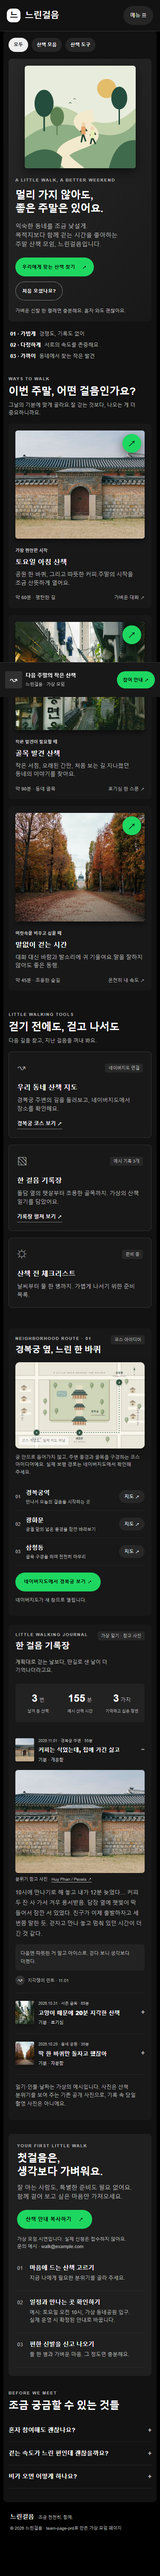
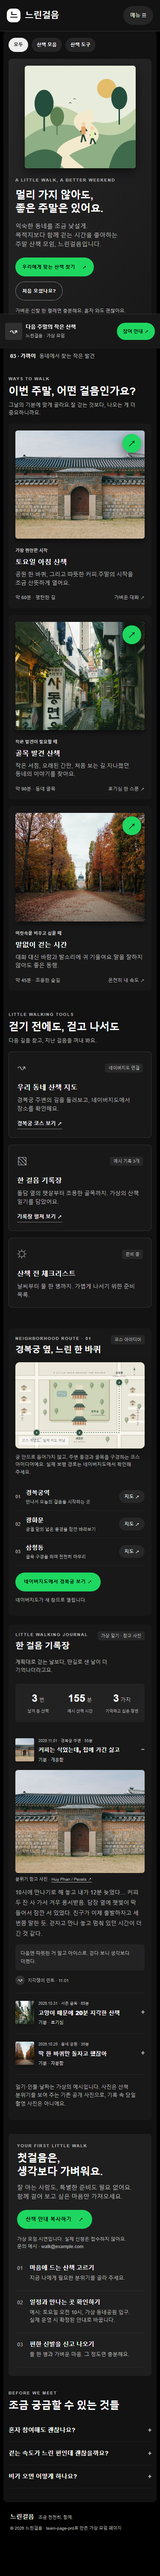
round2: remove skip link and refresh mobile screenshot

diff --git a/round2/에셈유/index.html b/round2/에셈유/index.html
@@ -6,7 +6,7 @@
 <title>느린걸음 — 동네에서 발견하는 좋은 주말</title>
 <style>
 :root{color-scheme:dark;--green:#1ed760;--paper:#121212;--lime:#1ed760;--soft:#252525;--ink:#fff;--muted:#b3b3b3;--line:#333;--white:#fff;--radius:8px;--sidebar:232px;--dock:88px;--shadow:0 8px 24px #0008}
-*{box-sizing:border-box}html{scroll-behavior:smooth;scroll-padding-top:32px}body{margin:0;background:#000;color:var(--ink);font-family:SpotifyMixUI,"Helvetica Neue",Arial,"Apple SD Gothic Neo","Malgun Gothic",sans-serif;font-size:14px;line-height:1.5;word-break:keep-all}a{color:inherit;text-decoration:none}button{font:inherit;cursor:pointer}a:focus-visible,button:focus-visible,summary:focus-visible{outline:2px solid #fff;outline-offset:5px}.skip{position:fixed;top:16px;left:16px;z-index:40;background:#252525;color:#fff;padding:12px 20px;border-radius:9999px;text-decoration:none}.skip:not(:focus-visible){width:1px;height:1px;padding:0;overflow:hidden;clip-path:inset(50%);white-space:nowrap;pointer-events:none}.skip:focus-visible{outline:2px solid #fff;outline-offset:4px}.wrap{width:auto;margin:0}header{position:fixed;inset:8px auto calc(var(--dock) + 8px) 8px;width:calc(var(--sidebar) - 16px);background:var(--paper);border-radius:8px;z-index:20}.nav{height:100%;padding:28px 16px;display:flex;flex-direction:column;align-items:stretch;gap:32px}.brand{display:flex;gap:10px;align-items:center;font-size:23px;font-weight:700;letter-spacing:-1px;padding:0 4px}.brand svg,.brand img{width:36px;height:36px;object-fit:contain}.brand svg rect{fill:#fff}.brand svg text{fill:#121212}nav{display:flex;flex-direction:column;gap:8px;font-size:14px}nav a{padding:12px 16px;color:var(--muted);border-radius:9999px;transition:background .2s,color .2s}nav a:hover{background:var(--soft);color:#fff}nav a[aria-current="location"]{background:#252525;color:#fff;font-weight:700}nav a:before{display:inline-block;width:24px;margin-right:8px;content:'↗';font-size:16px}nav a:first-child:before{content:'⌂'}nav a:nth-child(2):before{content:'↝'}nav a:nth-child(3):before{content:'▧'}nav .nav-cta{margin-top:16px;background:var(--green);color:#000;font-weight:700;font-size:12px;padding:12px}.nav-cta:hover{background:#3be477;color:#000}.sidebar-note{margin-top:auto;color:var(--muted);font-size:12px;padding:16px;line-height:1.7}.sidebar-note strong{display:block;color:#fff;font-size:14px;margin-bottom:8px}.sidebar-note span{display:inline-block;margin-top:20px;border-radius:9999px;box-shadow:inset 0 0 0 1px #7c7c7c;padding:6px 12px;font-size:11px}.menu{display:none}main{margin:8px 8px 0 var(--sidebar);background:var(--paper);border-radius:8px;min-height:calc(100vh - 16px);padding:24px 32px 0;overflow:clip}.content-top{display:flex;align-items:center;justify-content:space-between;gap:12px;margin-bottom:24px}.pills{display:flex;gap:8px}.pills a{padding:8px 16px;background:#252525;border-radius:9999px;font-size:12px;font-weight:700}.pills a:first-child{background:#eee;color:#181818}.edition{font-size:12px;color:var(--muted)}.eyebrow{font-size:10px;letter-spacing:1.6px;text-transform:uppercase;font-weight:700;color:var(--muted)}.hero{display:grid;grid-template-columns:1fr 260px;gap:32px;align-items:center;padding:24px;background:linear-gradient(135deg,#292929,#181818);border-radius:8px}.hero>div:first-child{order:2}.scene{order:1;grid-column:2;grid-row:1;min-width:0}.hero>div:first-child{grid-column:1;grid-row:1}h1{font-family:SpotifyMixUITitle,"Helvetica Neue",Arial,"Malgun Gothic",sans-serif;font-size:24px;font-weight:700;line-height:1.3;letter-spacing:-.6px;margin:12px 0 16px}h1 em{font-style:normal}h1 br:nth-of-type(2){display:none}.lead{font-size:14px;color:var(--muted);margin:0 0 20px;line-height:1.5}.buttons{display:flex;gap:12px;flex-wrap:wrap}.btn{display:inline-flex;align-items:center;justify-content:center;gap:16px;min-height:44px;background:var(--green);color:#000;border:0;border-radius:9999px;padding:12px 20px;font-size:12px;font-weight:700;letter-spacing:1.4px;text-transform:uppercase;transition:transform .2s,background .2s}.btn:hover{transform:scale(1.03);background:#3be477}.btn.light{background:transparent;color:#fff;box-shadow:inset 0 0 0 1px #7c7c7c}.btn.light:hover{box-shadow:inset 0 0 0 1px #fff}.micro{font-size:11px;color:var(--muted);margin:16px 0 0}.scene svg{width:100%;height:auto;display:block;border-radius:6px;box-shadow:var(--shadow)}.scene-label,.scene-tag{display:none}.principles{display:flex;gap:24px;flex-wrap:wrap;padding:24px 0;color:var(--muted);font-size:12px}.principles strong{color:#fff;margin-right:8px;font-weight:700}section.block{padding:16px 0 32px}.section-head{display:flex;justify-content:space-between;align-items:end;gap:16px;margin-bottom:16px}h2{font-family:SpotifyMixUITitle,"Helvetica Neue",Arial,"Malgun Gothic",sans-serif;font-size:24px;font-weight:700;line-height:1.3;letter-spacing:-.5px;margin:6px 0 0}.section-head p{color:var(--muted);font-size:12px;margin:0}.grid{display:grid;grid-template-columns:repeat(3,minmax(0,1fr));gap:16px}.card{position:relative;background:#181818;border:0;border-radius:8px;padding:16px;transition:background .2s;min-width:0}.card:hover{background:#252525}.art{aspect-ratio:1;height:auto;display:grid;place-content:center;overflow:hidden;border-radius:6px;box-shadow:0 8px 8px #0005}.art.one{background:#e8eddd}.art.two{background:#eee7da}.art.three{background:#e1e8e8}.art svg{width:100%;height:auto;display:block}.card-copy{padding:16px 0 0}.tag{font-size:10px;color:#cbcbcb;font-weight:600}.card h3{font-size:16px;line-height:1.3;margin:8px 0;letter-spacing:0;font-weight:700}.card p{font-size:13px;color:var(--muted);margin:0;line-height:1.5}.card-bottom{display:flex;justify-content:space-between;gap:8px;margin-top:16px;font-size:11px;color:var(--muted)}.card-link{position:absolute;right:24px;top:24px;width:44px;height:44px;border-radius:50%;background:var(--green);color:#000;box-shadow:var(--shadow);display:grid;place-items:center;font-size:22px;transition:transform .2s}.card-link:hover{transform:scale(1.08)}.tool{border-radius:8px;padding:20px;background:#181818;box-shadow:inset 0 0 0 1px #333}.tool-top{display:flex;justify-content:space-between;align-items:center}.tool-icon{font-size:24px;color:#b3b3b3}.soon{font-size:10px;background:#272727;color:var(--muted);padding:3px 8px;border-radius:4px}.tool h3{font-size:16px;margin:16px 0 8px}.tool p{font-size:13px;color:var(--muted);margin:0}.join{background:#1f1f1f;border-radius:8px;padding:24px;display:grid;grid-template-columns:1fr 1fr;gap:32px}.join h2{font-size:24px}.join p{font-size:14px;color:var(--muted);margin:12px 0}.join .btn{margin-top:8px}.join small{display:block;font-size:11px;color:var(--muted);margin-top:16px}.steps{list-style:none;margin:0;padding:0}.steps li{display:flex;gap:16px;padding:16px 0;border-bottom:1px solid #ffffff12}.steps b{font-size:12px;font-weight:400;color:var(--muted);padding-top:2px}.steps strong{font-size:14px}.steps p{font-size:12px;margin:4px 0}.faq{display:grid;grid-template-columns:1fr 1.5fr;gap:24px;padding:32px 0}.faq h2{font-size:24px}details{padding:16px 0;border-bottom:1px solid #ffffff12;font-size:14px}summary{cursor:pointer;list-style:none;display:flex;justify-content:space-between;gap:12px;font-weight:700}summary::-webkit-details-marker{display:none}summary:after{content:'+';color:var(--muted)}details[open] summary:after{content:'−'}details p{font-size:13px;color:var(--muted);margin:12px 0 0}footer{margin-left:var(--sidebar);padding:24px 32px calc(var(--dock) + 24px);color:var(--muted)}.foot{display:flex;justify-content:space-between;gap:16px;font-size:10px}.foot strong{font-size:14px;color:#fff}.walk-dock{position:fixed;bottom:0;left:0;right:0;height:var(--dock);z-index:25;background:#181818;box-shadow:0 -1px 0 #333;display:flex;align-items:center;justify-content:space-between;gap:24px;padding:12px 24px}.dock-info{display:flex;gap:12px;align-items:center;min-width:0}.dock-cover{display:grid;place-items:center;width:52px;height:52px;background:#303030;border-radius:4px;font-size:26px;flex-shrink:0}.dock-info strong{font-size:14px;display:block}.dock-info small{font-size:11px;color:var(--muted)}.dock-center{color:var(--muted);font-size:12px;text-align:center}.dock-center strong{display:block;color:#fff;font-size:12px;margin-bottom:4px}.walk-dock .btn{font-size:11px}.toast{position:fixed;bottom:calc(var(--dock) + 16px);left:50%;transform:translateX(-50%);max-width:calc(100% - 32px);width:max-content;background:#fff;color:#121212;border-radius:8px;box-shadow:var(--shadow);padding:12px 20px;font-size:13px;z-index:40}.toast:empty{display:none}
+*{box-sizing:border-box}html{scroll-behavior:smooth;scroll-padding-top:32px}body{margin:0;background:#000;color:var(--ink);font-family:SpotifyMixUI,"Helvetica Neue",Arial,"Apple SD Gothic Neo","Malgun Gothic",sans-serif;font-size:14px;line-height:1.5;word-break:keep-all}a{color:inherit;text-decoration:none}button{font:inherit;cursor:pointer}a:focus-visible,button:focus-visible,summary:focus-visible{outline:2px solid #fff;outline-offset:5px}.wrap{width:auto;margin:0}header{position:fixed;inset:8px auto calc(var(--dock) + 8px) 8px;width:calc(var(--sidebar) - 16px);background:var(--paper);border-radius:8px;z-index:20}.nav{height:100%;padding:28px 16px;display:flex;flex-direction:column;align-items:stretch;gap:32px}.brand{display:flex;gap:10px;align-items:center;font-size:23px;font-weight:700;letter-spacing:-1px;padding:0 4px}.brand svg,.brand img{width:36px;height:36px;object-fit:contain}.brand svg rect{fill:#fff}.brand svg text{fill:#121212}nav{display:flex;flex-direction:column;gap:8px;font-size:14px}nav a{padding:12px 16px;color:var(--muted);border-radius:9999px;transition:background .2s,color .2s}nav a:hover{background:var(--soft);color:#fff}nav a[aria-current="location"]{background:#252525;color:#fff;font-weight:700}nav a:before{display:inline-block;width:24px;margin-right:8px;content:'↗';font-size:16px}nav a:first-child:before{content:'⌂'}nav a:nth-child(2):before{content:'↝'}nav a:nth-child(3):before{content:'▧'}nav .nav-cta{margin-top:16px;background:var(--green);color:#000;font-weight:700;font-size:12px;padding:12px}.nav-cta:hover{background:#3be477;color:#000}.sidebar-note{margin-top:auto;color:var(--muted);font-size:12px;padding:16px;line-height:1.7}.sidebar-note strong{display:block;color:#fff;font-size:14px;margin-bottom:8px}.sidebar-note span{display:inline-block;margin-top:20px;border-radius:9999px;box-shadow:inset 0 0 0 1px #7c7c7c;padding:6px 12px;font-size:11px}.menu{display:none}main{margin:8px 8px 0 var(--sidebar);background:var(--paper);border-radius:8px;min-height:calc(100vh - 16px);padding:24px 32px 0;overflow:clip}.content-top{display:flex;align-items:center;justify-content:space-between;gap:12px;margin-bottom:24px}.pills{display:flex;gap:8px}.pills a{padding:8px 16px;background:#252525;border-radius:9999px;font-size:12px;font-weight:700}.pills a:first-child{background:#eee;color:#181818}.edition{font-size:12px;color:var(--muted)}.eyebrow{font-size:10px;letter-spacing:1.6px;text-transform:uppercase;font-weight:700;color:var(--muted)}.hero{display:grid;grid-template-columns:1fr 260px;gap:32px;align-items:center;padding:24px;background:linear-gradient(135deg,#292929,#181818);border-radius:8px}.hero>div:first-child{order:2}.scene{order:1;grid-column:2;grid-row:1;min-width:0}.hero>div:first-child{grid-column:1;grid-row:1}h1{font-family:SpotifyMixUITitle,"Helvetica Neue",Arial,"Malgun Gothic",sans-serif;font-size:24px;font-weight:700;line-height:1.3;letter-spacing:-.6px;margin:12px 0 16px}h1 em{font-style:normal}h1 br:nth-of-type(2){display:none}.lead{font-size:14px;color:var(--muted);margin:0 0 20px;line-height:1.5}.buttons{display:flex;gap:12px;flex-wrap:wrap}.btn{display:inline-flex;align-items:center;justify-content:center;gap:16px;min-height:44px;background:var(--green);color:#000;border:0;border-radius:9999px;padding:12px 20px;font-size:12px;font-weight:700;letter-spacing:1.4px;text-transform:uppercase;transition:transform .2s,background .2s}.btn:hover{transform:scale(1.03);background:#3be477}.btn.light{background:transparent;color:#fff;box-shadow:inset 0 0 0 1px #7c7c7c}.btn.light:hover{box-shadow:inset 0 0 0 1px #fff}.micro{font-size:11px;color:var(--muted);margin:16px 0 0}.scene svg{width:100%;height:auto;display:block;border-radius:6px;box-shadow:var(--shadow)}.scene-label,.scene-tag{display:none}.principles{display:flex;gap:24px;flex-wrap:wrap;padding:24px 0;color:var(--muted);font-size:12px}.principles strong{color:#fff;margin-right:8px;font-weight:700}section.block{padding:16px 0 32px}.section-head{display:flex;justify-content:space-between;align-items:end;gap:16px;margin-bottom:16px}h2{font-family:SpotifyMixUITitle,"Helvetica Neue",Arial,"Malgun Gothic",sans-serif;font-size:24px;font-weight:700;line-height:1.3;letter-spacing:-.5px;margin:6px 0 0}.section-head p{color:var(--muted);font-size:12px;margin:0}.grid{display:grid;grid-template-columns:repeat(3,minmax(0,1fr));gap:16px}.card{position:relative;background:#181818;border:0;border-radius:8px;padding:16px;transition:background .2s;min-width:0}.card:hover{background:#252525}.art{aspect-ratio:1;height:auto;display:grid;place-content:center;overflow:hidden;border-radius:6px;box-shadow:0 8px 8px #0005}.art.one{background:#e8eddd}.art.two{background:#eee7da}.art.three{background:#e1e8e8}.art svg{width:100%;height:auto;display:block}.card-copy{padding:16px 0 0}.tag{font-size:10px;color:#cbcbcb;font-weight:600}.card h3{font-size:16px;line-height:1.3;margin:8px 0;letter-spacing:0;font-weight:700}.card p{font-size:13px;color:var(--muted);margin:0;line-height:1.5}.card-bottom{display:flex;justify-content:space-between;gap:8px;margin-top:16px;font-size:11px;color:var(--muted)}.card-link{position:absolute;right:24px;top:24px;width:44px;height:44px;border-radius:50%;background:var(--green);color:#000;box-shadow:var(--shadow);display:grid;place-items:center;font-size:22px;transition:transform .2s}.card-link:hover{transform:scale(1.08)}.tool{border-radius:8px;padding:20px;background:#181818;box-shadow:inset 0 0 0 1px #333}.tool-top{display:flex;justify-content:space-between;align-items:center}.tool-icon{font-size:24px;color:#b3b3b3}.soon{font-size:10px;background:#272727;color:var(--muted);padding:3px 8px;border-radius:4px}.tool h3{font-size:16px;margin:16px 0 8px}.tool p{font-size:13px;color:var(--muted);margin:0}.join{background:#1f1f1f;border-radius:8px;padding:24px;display:grid;grid-template-columns:1fr 1fr;gap:32px}.join h2{font-size:24px}.join p{font-size:14px;color:var(--muted);margin:12px 0}.join .btn{margin-top:8px}.join small{display:block;font-size:11px;color:var(--muted);margin-top:16px}.steps{list-style:none;margin:0;padding:0}.steps li{display:flex;gap:16px;padding:16px 0;border-bottom:1px solid #ffffff12}.steps b{font-size:12px;font-weight:400;color:var(--muted);padding-top:2px}.steps strong{font-size:14px}.steps p{font-size:12px;margin:4px 0}.faq{display:grid;grid-template-columns:1fr 1.5fr;gap:24px;padding:32px 0}.faq h2{font-size:24px}details{padding:16px 0;border-bottom:1px solid #ffffff12;font-size:14px}summary{cursor:pointer;list-style:none;display:flex;justify-content:space-between;gap:12px;font-weight:700}summary::-webkit-details-marker{display:none}summary:after{content:'+';color:var(--muted)}details[open] summary:after{content:'−'}details p{font-size:13px;color:var(--muted);margin:12px 0 0}footer{margin-left:var(--sidebar);padding:24px 32px calc(var(--dock) + 24px);color:var(--muted)}.foot{display:flex;justify-content:space-between;gap:16px;font-size:10px}.foot strong{font-size:14px;color:#fff}.walk-dock{position:fixed;bottom:0;left:0;right:0;height:var(--dock);z-index:25;background:#181818;box-shadow:0 -1px 0 #333;display:flex;align-items:center;justify-content:space-between;gap:24px;padding:12px 24px}.dock-info{display:flex;gap:12px;align-items:center;min-width:0}.dock-cover{display:grid;place-items:center;width:52px;height:52px;background:#303030;border-radius:4px;font-size:26px;flex-shrink:0}.dock-info strong{font-size:14px;display:block}.dock-info small{font-size:11px;color:var(--muted)}.dock-center{color:var(--muted);font-size:12px;text-align:center}.dock-center strong{display:block;color:#fff;font-size:12px;margin-bottom:4px}.walk-dock .btn{font-size:11px}.toast{position:fixed;bottom:calc(var(--dock) + 16px);left:50%;transform:translateX(-50%);max-width:calc(100% - 32px);width:max-content;background:#fff;color:#121212;border-radius:8px;box-shadow:var(--shadow);padding:12px 20px;font-size:13px;z-index:40}.toast:empty{display:none}
 @media(min-width:897px) and (max-width:1100px){:root{--sidebar:200px}main{padding:20px}.hero{grid-template-columns:1fr 180px;padding:20px;gap:20px}.grid{grid-template-columns:repeat(2,minmax(0,1fr))}.nav{padding:24px 12px}.brand{font-size:20px}.join{gap:20px}.dock-center{display:none}}
 @media(max-width:896px){:root{--dock:80px}html{scroll-padding-top:88px}header{position:sticky;top:0;inset:auto;width:auto;margin:0;border-radius:0;background:#121212;box-shadow:0 1px 0 #333}.nav{height:72px;padding:12px 16px;flex-direction:row;justify-content:space-between;align-items:center;gap:12px}.brand{font-size:21px;padding:0}.brand svg,.brand img{width:32px;height:32px}.sidebar-note{display:none}.menu{display:block;color:#fff;border:0;border-radius:9999px;background:#252525;padding:10px 16px;font-size:12px;min-height:44px}nav{display:none;position:absolute;top:72px;left:0;right:0;background:#181818;padding:16px;box-shadow:var(--shadow)}nav.open{display:flex}nav .nav-cta{margin-top:8px}main{margin:0 8px;padding:20px 16px 0;min-height:0}.hero{grid-template-columns:1fr 200px;gap:20px;padding:20px}.content-top{margin-bottom:20px}.edition{display:none}.section-head{align-items:start}.section-head p{max-width:180px}.grid{grid-template-columns:repeat(2,minmax(0,1fr))}.join{gap:24px;padding:24px}.faq{grid-template-columns:1fr;gap:16px}footer{margin:0;padding:24px 24px calc(var(--dock) + 24px)}.walk-dock{padding:12px 16px;gap:12px}.dock-center{display:none}.dock-info small{font-size:10px}.foot{flex-direction:column;gap:8px}}
 @media(max-width:575px){main{padding:16px 12px 0}.content-top{margin-bottom:16px}.pills a{font-size:11px;padding:8px 12px}.hero{grid-template-columns:1fr;padding:16px;gap:20px}.scene{grid-column:1;grid-row:1;width:min(100%,260px);margin:auto}.hero>div:first-child{grid-column:1;grid-row:2}h1{font-size:24px}.lead{font-size:14px}.hero .btn{font-size:11px;padding:12px 16px;letter-spacing:.4px}.principles{flex-direction:column;gap:8px;padding:20px 4px}.section-head{flex-direction:column;gap:8px}.section-head p{max-width:none;font-size:12px}.section-head p br{display:none}h2{font-size:24px}.grid{grid-template-columns:1fr}.card{padding:16px}.art{aspect-ratio:1.2}.card-copy{padding-top:16px}.card p br{display:none}.join{grid-template-columns:1fr;padding:20px;gap:16px}.join .btn{letter-spacing:.5px}.dock-cover{width:40px;height:40px;font-size:22px}.dock-info strong{font-size:12px}.dock-info small{font-size:10px}.walk-dock{gap:8px;padding:12px}.walk-dock .btn{padding:10px 14px;min-height:40px;letter-spacing:0;font-size:11px;white-space:nowrap}.dock-info{gap:8px}.toast{left:16px;transform:none;width:calc(100% - 32px)}}
@@ -19,7 +19,6 @@
 </style>
 </head>
 <body>
-<a class="skip" href="#main">본문으로 바로가기</a>
 <header><div class="wrap nav"><a class="brand" href="#intro" aria-label="느린걸음 처음으로"><svg id="fallback-logo" viewBox="0 0 40 40" aria-hidden="true"><rect width="40" height="40" rx="14" fill="#244d3e"/><text x="20" y="28" text-anchor="middle" font-size="25" font-weight="700" fill="#d9f078">느</text></svg><span>느린걸음</span></a><button class="menu" type="button" aria-expanded="false" aria-controls="navigation">메뉴 <span aria-hidden="true">☰</span></button><nav id="navigation" aria-label="주 메뉴"><a href="#intro">우리의 속도</a><a href="#work">함께 걷기</a><a href="#tools">산책 도구</a><a class="nav-cta" href="#contact">첫 산책 알아보기 ↗</a></nav><div class="sidebar-note"><strong>가까운 곳에서 발견하는 주말</strong>경쟁도, 기록도 없이.<br>내 속도로 걷는 작은 모임.<br><span>가상 모임 · 시연용</span></div></div></header>
 <main id="main"><div class="wrap"><div class="content-top"><div class="pills"><a href="#intro">모두</a><a href="#work">산책 모음</a><a href="#tools">산책 도구</a></div><span class="edition">WEEKEND WALK CLUB · VOL. 01</span></div>
 <section class="hero" id="intro"><div><div class="eyebrow">A little walk, a better weekend</div><h1>멀리 가지 않아도,<br>좋은 주말은<br> <em>있어요.</em></h1><p class="lead">익숙한 동네를 조금 낯설게.<br>목적지보다 함께 걷는 시간을 좋아하는<br>주말 산책 모임, 느린걸음입니다.</p><div class="buttons"><a class="btn" href="#work">우리에게 맞는 산책 찾기 <span>↗</span></a><a class="btn light" href="#contact">처음 오셨나요?</a></div><p class="micro">가벼운 신발 한 켤레면 충분해요. 혼자 와도 괜찮아요.</p></div>
